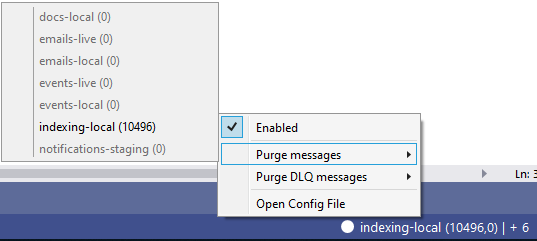
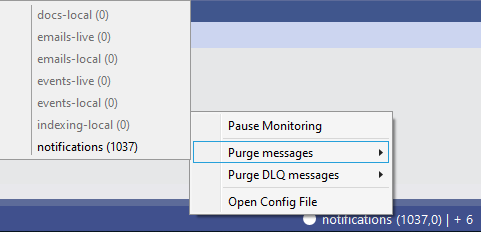
Fix pausing

diff --git a/TimVinkemeier.VSServiceBusMonitor/Themes/Generic.xaml.cs b/TimVinkemeier.VSServiceBusMonitor/Themes/Generic.xaml.cs
@@ -16,12 +16,9 @@ namespace TimVinkemeier.VSServiceBusMonitor.Themes
             // Enabled switch
             var enabledMenuItem = new MenuItem
             {
-                Header = "_Enabled",
-                IsCheckable = true,
-                IsChecked = true
+                Header = ServiceBusMonitor.Instance.IsEnabled ? "_Pause Monitoring" : "_Resume Monitoring",
             };
-            enabledMenuItem.Checked += ToggleActivity_Checked;
-            enabledMenuItem.Unchecked += ToggleActivity_Unchecked;
+            enabledMenuItem.Click += ToggleEnabledStatus;
             contextMenu.Items.Add(enabledMenuItem);
 
             // Separator
@@ -96,18 +93,9 @@ namespace TimVinkemeier.VSServiceBusMonitor.Themes
         }
 
         private async void PurgeFromServiceBusEntity(ServiceBusEntityStatus status, object sender, RoutedEventArgs args, bool purgeDlqInsteadOfMessages)
-        {
-            await ServiceBusMonitor.Instance.PurgeServiceBusEntityAsync(status.EntityName, purgeDlqInsteadOfMessages, status is SubscriptionStatus sbs ? sbs.TopicName : null);
-        }
+            => await ServiceBusMonitor.Instance.PurgeServiceBusEntityAsync(status.EntityName, purgeDlqInsteadOfMessages, status is SubscriptionStatus sbs ? sbs.TopicName : null).ConfigureAwait(false);
 
-        private void ToggleActivity_Checked(object sender, RoutedEventArgs e)
-        {
-            ServiceBusMonitor.Instance.IsEnabled = true;
-        }
-
-        private void ToggleActivity_Unchecked(object sender, RoutedEventArgs e)
-        {
-            ServiceBusMonitor.Instance.IsEnabled = false;
-        }
+        private void ToggleEnabledStatus(object sender, RoutedEventArgs e)
+            => ServiceBusMonitor.Instance.IsEnabled = !ServiceBusMonitor.Instance.IsEnabled;
     }
 }
